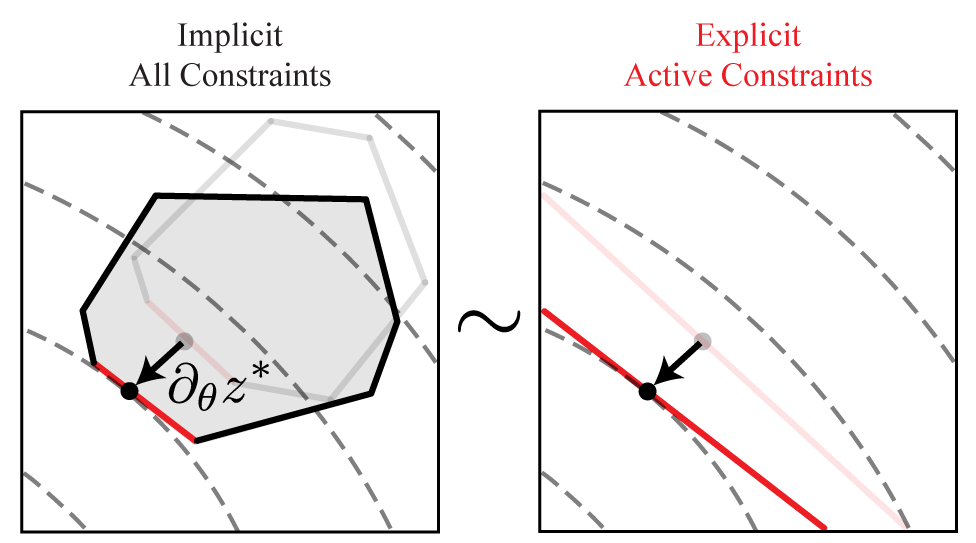
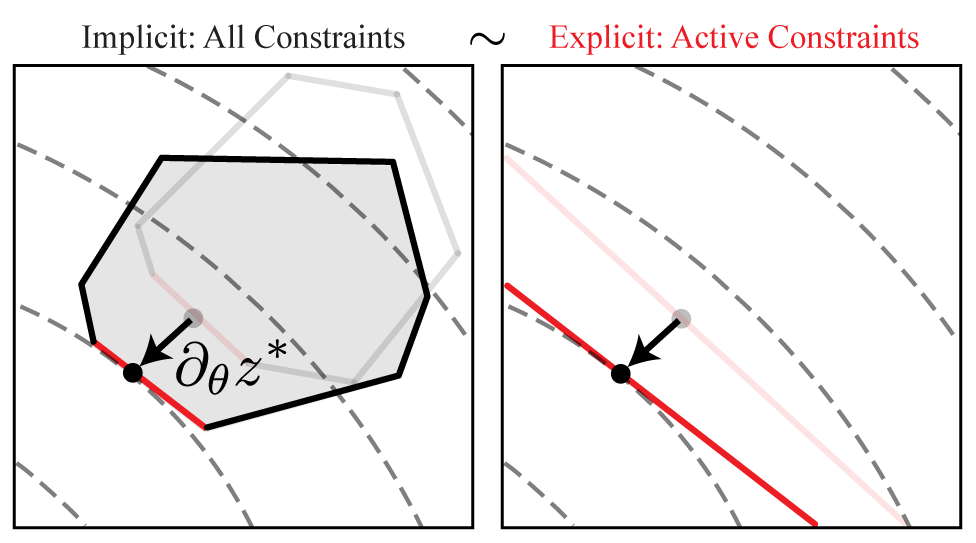
Fine tune resizing and fix years in cv

diff --git a/_pages/about.md b/_pages/about.md
@@ -34,20 +34,20 @@ hide_footer: true
   }
 
   .main-wrap {
-    max-width: 70%;
-    margin: 0.5rem auto 2rem auto;
+    max-width: 60%;
+    margin: 0.25rem auto 1rem auto;
   }
 
   .section {
-    padding: 1.5rem;
-    margin: 2rem 0;
+    padding: 0.75rem;
+    margin: 1rem 0;
     border-radius: 14px;
     background: #f3f3f3;
   }
 
   .section-header {
-    padding: 1.5rem;
-    margin: 2rem 0 2.5rem 0;
+    padding: 0.75rem;
+    margin: 1rem 0 1.25rem 0;
     border-radius: 14px;
     background: #f0f6ff;
     border-left: 4px solid #004085;
@@ -151,13 +151,12 @@ hide_footer: true
     gap: 1.5rem;
   }
 
-  @media (max-width: 1000px) {
-    .projects-grid { grid-template-columns: repeat(2, 1fr); }
-    .main-wrap { max-width: 85%; }
+  @media (max-width: 1400px) {
+    .projects-grid { grid-template-columns: 1fr; }
+    .main-wrap { max-width: 80%; }
   }
 
   @media (max-width: 600px) {
-    .projects-grid { grid-template-columns: 1fr; }
     .main-wrap { max-width: 95%; }
     .header-grid { grid-template-columns: 1fr; }
   }
@@ -179,12 +178,14 @@ hide_footer: true
 
   .project-card h3 {
     font-family: Helvetica, Arial, sans-serif !important;
-    font-size: clamp(0.6rem, 4.5cqi, 0.9rem);
-    white-space: nowrap;
-    overflow: hidden;
-    text-overflow: ellipsis;
+    font-size: 0.9rem; /* JS will override this dynamically */
     margin: 0 0 0.4rem 0;
     font-weight: bold;
+    line-height: 1.3;
+    white-space: normal;
+    overflow-wrap: break-word;
+    overflow: visible;
+    text-overflow: clip;
   }
 
   /* Clickable figures */
@@ -282,6 +283,23 @@ hide_footer: true
   .venue, .series-venue { font-size: 0.7rem; font-style: italic; margin: 0; }
   .links { margin-top: auto; padding-top: 0.5rem; }
 
+  .project-card .links.pill-links {
+    flex-wrap: nowrap;
+    overflow: hidden;
+  }
+
+  /* Scale text only when a card is narrower than 260px (window squished) */
+  @container (max-width: 260px) {
+    .authors,
+    .series-authors { font-size: clamp(0.45rem, 4.5cqi, 0.75rem); }
+    .venue, .series-venue { font-size: clamp(0.4rem, 4.2cqi, 0.7rem); }
+    .pill, .pill-blue {
+      font-size: clamp(0.4rem, 4.8cqi, 0.8rem);
+      padding: 0.25rem clamp(0.2rem, 3.8cqi, 0.65rem);
+      white-space: nowrap;
+    }
+  }
+
   .modal-title { font-size: 1.1rem; font-weight: bold; margin: 0 0 0.4rem 0; }
   .modal-authors { font-size: 0.85rem; margin: 0 0 0.2rem 0; color: #444; }
   .modal-venue { font-size: 0.8rem; font-style: italic; margin: 0 0 0.6rem 0; color: #666; }
@@ -289,16 +307,38 @@ hide_footer: true
   .modal-equal { font-size: 0.75rem; font-style: italic; color: #888; margin-top: 0.5rem; }
   .modal-pills { display: flex; flex-wrap: wrap; gap: 0.4rem; margin-top: 0.6rem; }
 
+  /* Series parts copied into the modal lose their flex parent, so lay
+     them out as spaced inline blocks (name over its own "Submitted"). */
+  .modal-authors .series-part {
+    display: inline-block;
+    vertical-align: top;
+    margin-right: 1.4rem;
+  }
+  .modal-authors .series-part:last-child { margin-right: 0; }
+  .modal-authors .series-part .series-venue { color: #666; }
+
   /* Three-part series authors grid */
   .series-authors {
     display: grid;
-    grid-template-columns: repeat(3, 1fr);
+    grid-template-columns: repeat(3, minmax(0, 1fr));
     gap: 0.05rem 0;
     font-size: 0.75rem;
     margin: 0.25rem 0 0 0;
   }
   .series-authors .label { font-style: normal; }
   #research .series-authors .label { display: none; }
+
+  /* Three-part series: each "Name + Submitted" is one non-breaking block
+     that wraps as a whole unit, so names never split mid-phrase. */
+  .series-parts {
+    display: flex;
+    flex-wrap: wrap;
+    gap: 0.3rem 1rem;
+  }
+  .series-part {
+    white-space: nowrap;
+    line-height: 1.3;
+  }
 </style>
 
 <div class="modal-overlay" id="desc-modal">
@@ -435,8 +475,10 @@ document.addEventListener('DOMContentLoaded', function () {
 
 <!-- Research -->
 <div class="section" id="research">
-<h2>Research</h2>
-<p style="font-style:italic; font-size:0.85rem;">Click figures for project descriptions.</p>
+<div style="display:flex; align-items:center; gap:1rem; margin-bottom:0.5rem;">
+<h2 style="margin-bottom:0;">Research</h2>
+<span style="font-style:italic; font-size:0.85rem; white-space:nowrap;">Click figures for project descriptions.</span>
+</div>
 
 <div class="projects-grid">
 
@@ -444,23 +486,15 @@ document.addEventListener('DOMContentLoaded', function () {
 <div class="project-card">
 <h3>Galloping Bubbles: Three-Part Series</h3>
 <div class="figure-with-text">
-<img src="/images/galloping_laws.png" class="clickable-figure">
+<img src="/images/galloping_laws.png" class="clickable-figure" style="border-radius:0;">
 <div class="figure-text">
 A deep-dive experimental, numerical, and theoretical follow-up to our initial discovery of galloping bubbles, which are vertically vibrating millimetric-sized bubbles that spontaneously break symmetry and self-propel along a horizontal wall. At their heart is the parametric excitation of symmetrical and asymmetrical shape modes that together generate a non-reciprocal deformation, enabling the bubble to `swim'.
 </div>
 </div>
-<div class="authors">
-  <div class="series-authors">
-    <span class="label">Experiments:</span>
-    <span class="label">Simulations:</span>
-    <span class="label">Theory:</span>
-    <span>Guan et al.</span>
-    <span>Magoon et al.</span>
-    <span>Tamim et al.</span>
-    <span class="series-venue">Submitted</span>
-    <span class="series-venue">Submitted</span>
-    <span class="series-venue">Submitted</span>
-  </div>
+<div class="authors series-parts">
+  <span class="series-part">Guan et al.<br><span class="series-venue">Submitted</span></span>
+  <span class="series-part">Magoon et al.<br><span class="series-venue">Submitted</span></span>
+  <span class="series-part">Tamim et al.<br><span class="series-venue">Submitted</span></span>
 </div>
 <div class="links pill-links">
 <span class="pill">Coming soon</span>
@@ -471,7 +505,7 @@ A deep-dive experimental, numerical, and theoretical follow-up to our initial di
 <div class="project-card">
 <h3>dQP: Differentiating Quadratic Programs</h3>
 <div class="figure-with-text">
-<img src="/images/dQP_schematic.png" class="clickable-figure">
+<img src="/images/dQP_schematic.png" class="clickable-figure" style="border-radius:0;">
 <div class="figure-text">
 dQP is a modular framework for differentiating the solution to a quadratic programming problem (QP) with respect to its parameters, enabling the seamless integration of QPs into machine learning architectures and bilevel optimization. dQP supports over 15 state-of-the-art QP solvers.
 </div>
@@ -559,9 +593,10 @@ We present a Faraday wave instability where a vertically vibrated annular bath s
 
 
 <div class="section" id="code">
-<h2>Code</h2>
-
-<p style="font-style:italic; font-size:0.85rem;">Click figures for project repositories.</p>
+<div style="display:flex; align-items:center; gap:1rem; margin-bottom:0.5rem;">
+<h2 style="margin-bottom:0;">Code</h2>
+<span style="font-style:italic; font-size:0.85rem; white-space:nowrap;">Click figures for project repositories.</span>
+</div>
 
 <div class="projects-grid">
 
@@ -609,6 +644,66 @@ We present a Faraday wave instability where a vertically vibrated annular bath s
 
 
 
+
+
+<script>
+(function () {
+  function fitCardHeaders() {
+    var headers = Array.from(document.querySelectorAll('.project-card h3'));
+    if (!headers.length) return;
+
+    headers.forEach(function (h) {
+      h.style.whiteSpace = 'nowrap';
+      h.style.fontSize = '';
+    });
+
+    var sizes = headers.map(function (h) {
+      var card = h.closest('.project-card');
+      var cs = getComputedStyle(card);
+      var available = card.clientWidth
+        - parseFloat(cs.paddingLeft)
+        - parseFloat(cs.paddingRight);
+
+      /* hi is large so the search can grow the font to fill the card width
+         (not just shrink to fit). In multi-column the title overflows well
+         below this and shrinks as before; in single-column the wide card lets
+         it scale up so the title still stretches the full width. */
+      var lo = 6, hi = 200;
+      h.style.fontSize = hi + 'px';
+      if (h.scrollWidth <= available) return hi;
+
+      while (hi - lo > 0.25) {
+        var mid = (lo + hi) / 2;
+        h.style.fontSize = mid + 'px';
+        if (h.scrollWidth <= available) lo = mid; else hi = mid;
+      }
+      return lo;
+    });
+
+    var uniformSize = Math.min.apply(null, sizes);
+
+    headers.forEach(function (h) {
+      h.style.fontSize = uniformSize + 'px';
+      h.style.whiteSpace = '';
+    });
+  }
+
+  var resizeTimer;
+  window.addEventListener('resize', function () {
+    clearTimeout(resizeTimer);
+    resizeTimer = setTimeout(fitCardHeaders, 120);
+  });
+
+  if (document.readyState === 'loading') {
+    document.addEventListener('DOMContentLoaded', fitCardHeaders);
+  } else {
+    fitCardHeaders();
+  }
+  if (document.fonts && document.fonts.ready) {
+    document.fonts.ready.then(fitCardHeaders);
+  }
+})();
+</script>
 
 </div>
 